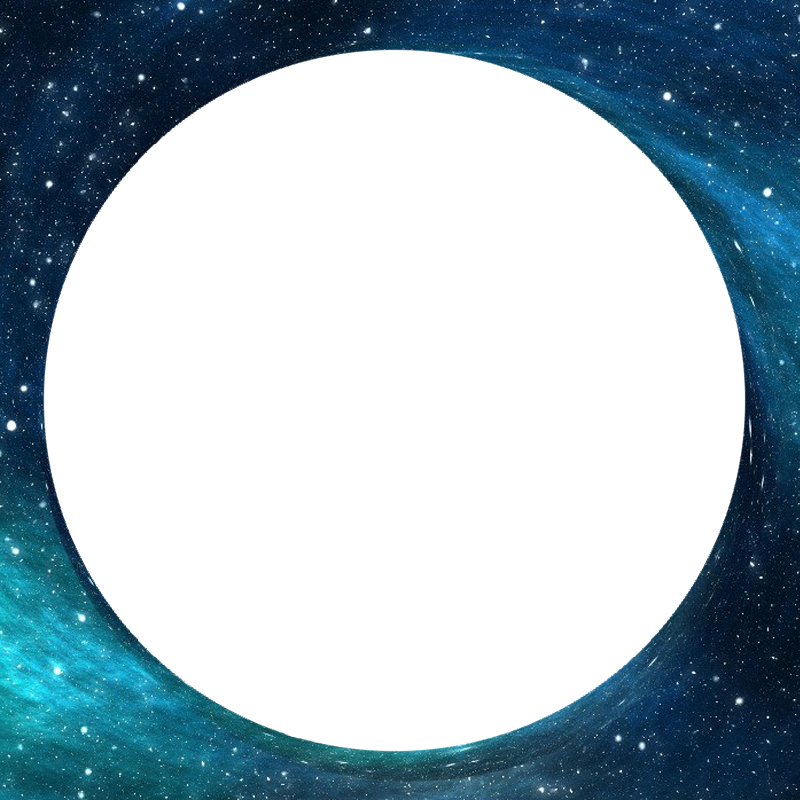
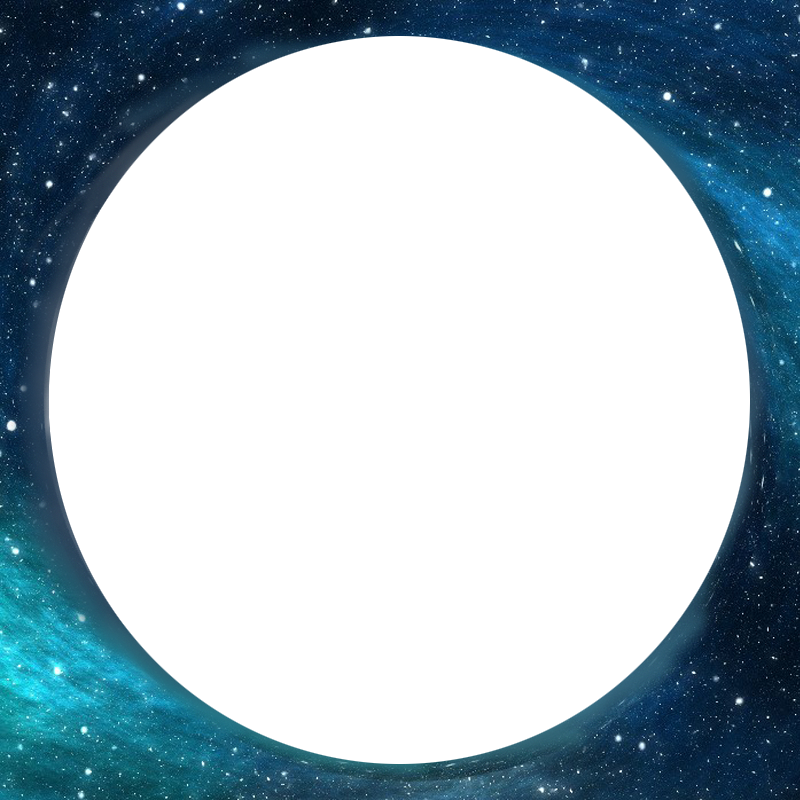
changed base level

Changed region(s): [[0.0312, 0.0312, 0.9062, 0.875], [0.25, 0.3438, 0.9688, 0.9688]]

diff --git a/WorldWarJump/WorldWarJump/gameworld.cpp b/WorldWarJump/WorldWarJump/gameworld.cpp
@@ -35,7 +35,7 @@ GameWorld::GameWorld(SoundPlayer *soundplayer)
     // terrain, background and level switch timer
 
     background = new QGraphicsPixmapItem;
-    background->setPixmap(QPixmap(":/images/pics/TerrainAndBackgrounds/Hiroshima_Background.png"));
+    background->setPixmap(QPixmap(":/images/pics/TerrainAndBackgrounds/Battlefield_Background.png"));
     scene->addItem(background);
 
     terrain = new Terrain;
@@ -121,8 +121,8 @@ void GameWorld::changeLevel()
     switch(stage){
     case 0:
         levelSwitchTimer->start(settings->getSecondsToChangeLevel()*1000);
-        background->setPixmap(QPixmap(":/images/pics/TerrainAndBackgrounds/Hiroshima_Background.png"));
-        terrain->setPixmap(QPixmap(":/images/pics/TerrainAndBackgrounds/Hiroshima_Front.png"));
+        background->setPixmap(QPixmap(":/images/pics/TerrainAndBackgrounds/Battlefield_Background.png"));
+        terrain->setPixmap(QPixmap(":/images/pics/TerrainAndBackgrounds/Battleground_Front.png"));
         scene->physicsCalulator->gravity = settings->getGravity();
         break;
     case 1:

diff --git a/WorldWarJump/WorldWarJump/terrain.cpp b/WorldWarJump/WorldWarJump/terrain.cpp
@@ -2,5 +2,5 @@
 
 Terrain::Terrain()
 {
-    setPixmap(QPixmap(":/images/pics/TerrainAndBackgrounds/Hiroshima_Front.png"));
+    setPixmap(QPixmap(":/images/pics/TerrainAndBackgrounds/Battleground_Front.png"));
 }
